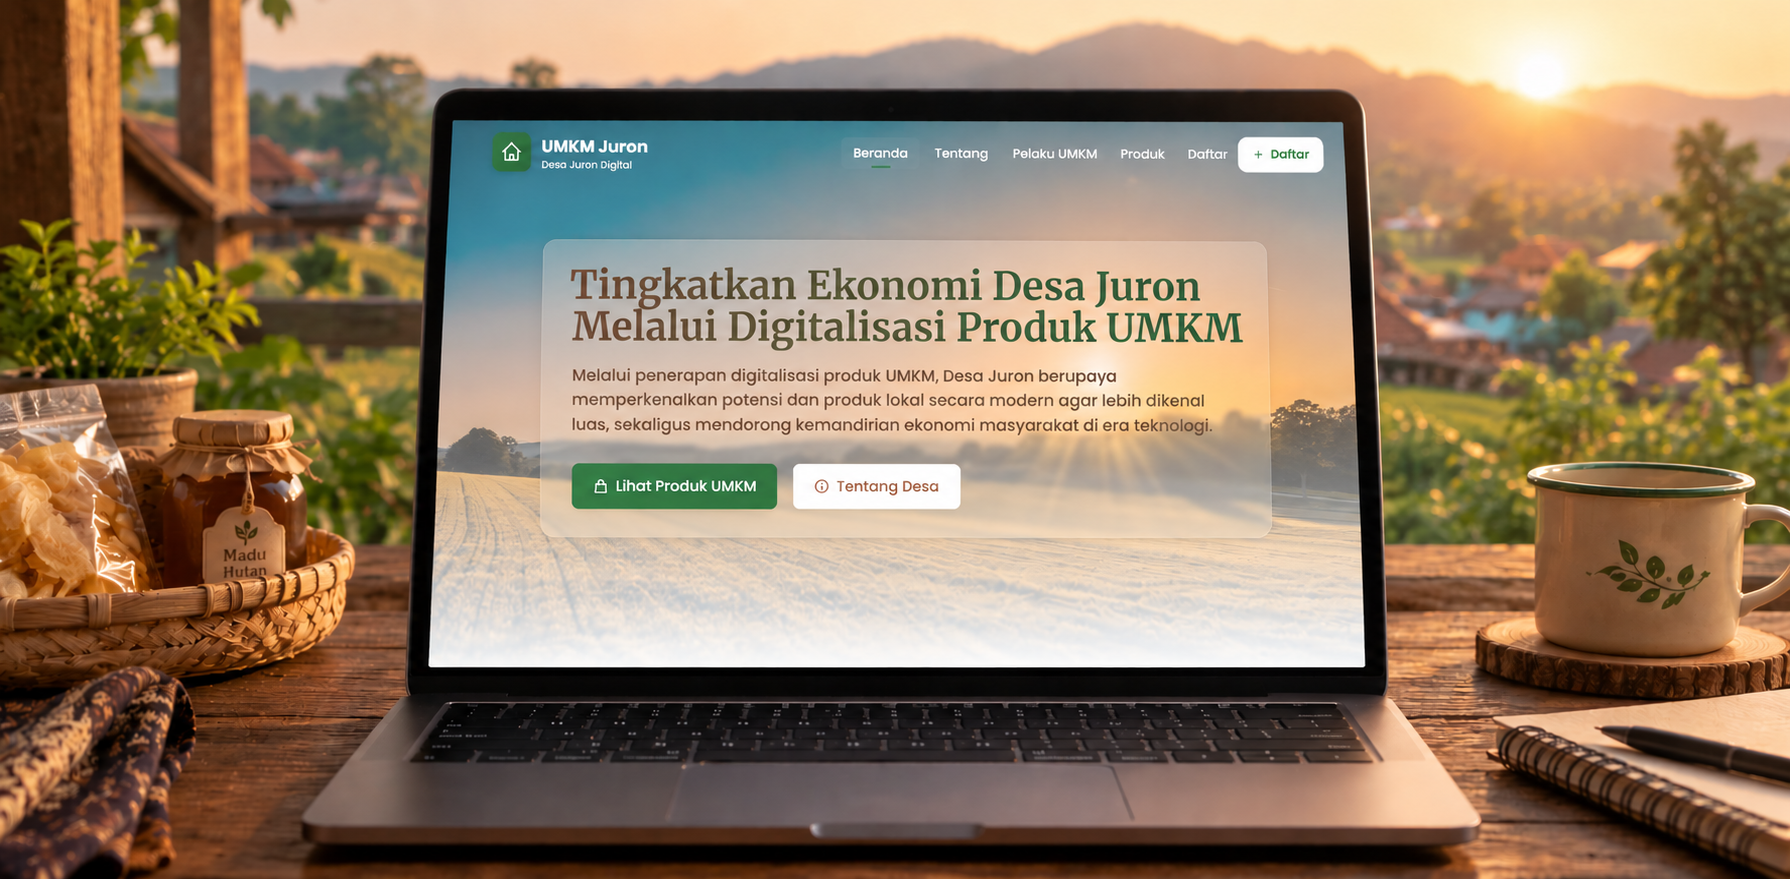
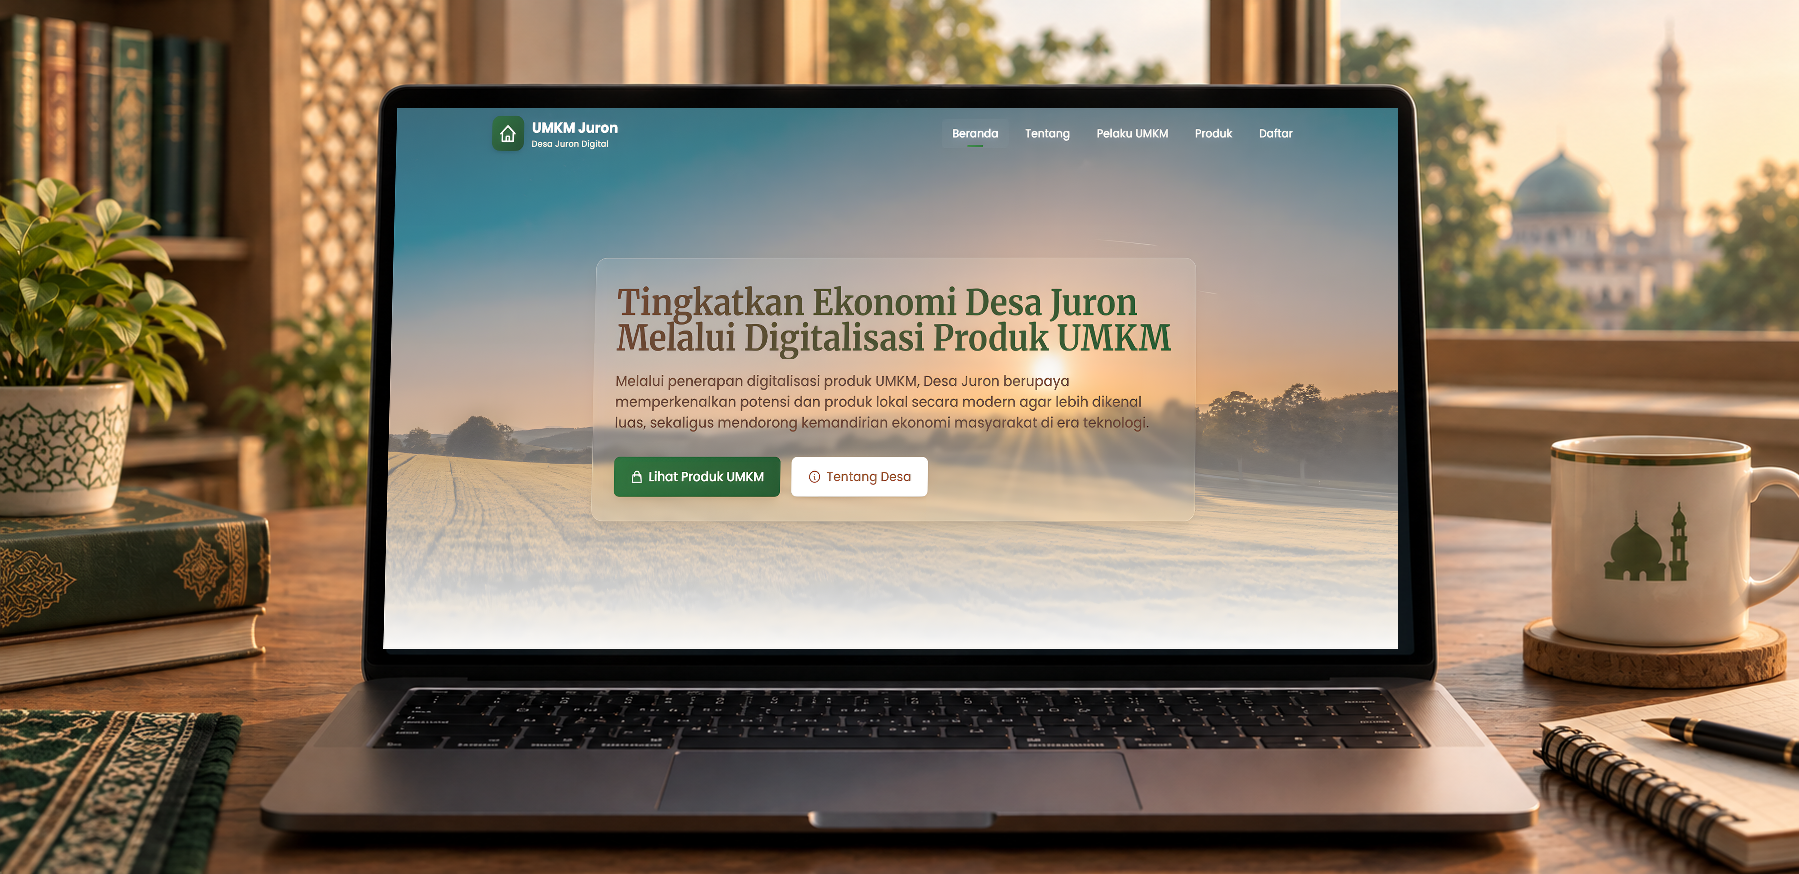
change image project umkm

diff --git a/index.html b/index.html
@@ -1962,18 +1962,8 @@
                     <h2>Experience <span class="section-sub">— professional journey</span></h2>
                 </div>
                 <div class="glass timeline-content">
+                    <!-- ===== PERUBAHAN: Full Stack Developer dinaikkan ke atas ===== -->
                     <div class="timeline-item reveal-left" style="transition-delay:0.1s;">
-                        <div class="title">
-                            <span>Game Artist · Infinite Learning (MSIB)</span>
-                            <span class="date">09/2024 – 12/2024</span>
-                        </div>
-                        <ul>
-                            <li>Developed 3D games with Unity, level design &amp; gameplay optimization</li>
-                            <li>Collaborated on immersive environments &amp; gameplay systems</li>
-                            <li>Presented outcomes to mentors &amp; peers</li>
-                        </ul>
-                    </div>
-                    <div class="timeline-item reveal-left" style="transition-delay:0.2s;">
                         <div class="title">
                             <span>Full Stack Developer · Sekretariat Daerah Kota Semarang</span>
                             <span class="date">02/2025 – 07/2025</span>
@@ -1982,6 +1972,17 @@
                             <li>Rebuilt front-end of TAPEM platform, improved UX &amp; visual design</li>
                             <li>Developed interactive interfaces for public service information</li>
                             <li>Integrated front-end &amp; back-end components</li>
+                        </ul>
+                    </div>
+                    <div class="timeline-item reveal-left" style="transition-delay:0.2s;">
+                        <div class="title">
+                            <span>Game Artist · Infinite Learning (MSIB)</span>
+                            <span class="date">09/2024 – 12/2024</span>
+                        </div>
+                        <ul>
+                            <li>Developed 3D games with Unity, level design &amp; gameplay optimization</li>
+                            <li>Collaborated on immersive environments &amp; gameplay systems</li>
+                            <li>Presented outcomes to mentors &amp; peers</li>
                         </ul>
                     </div>
                 </div>
